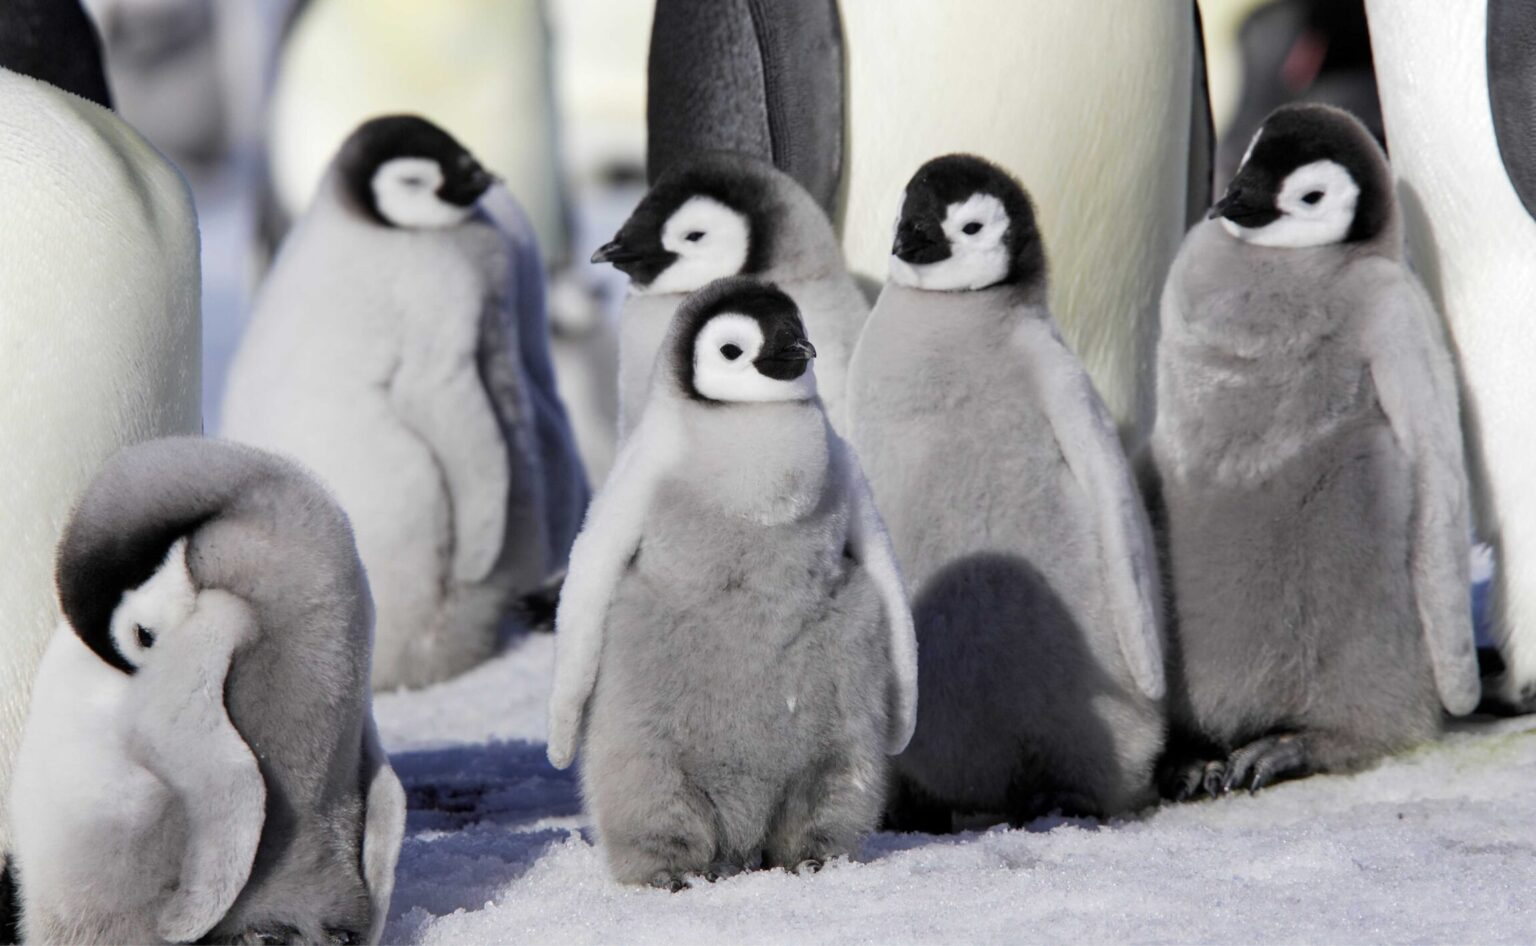
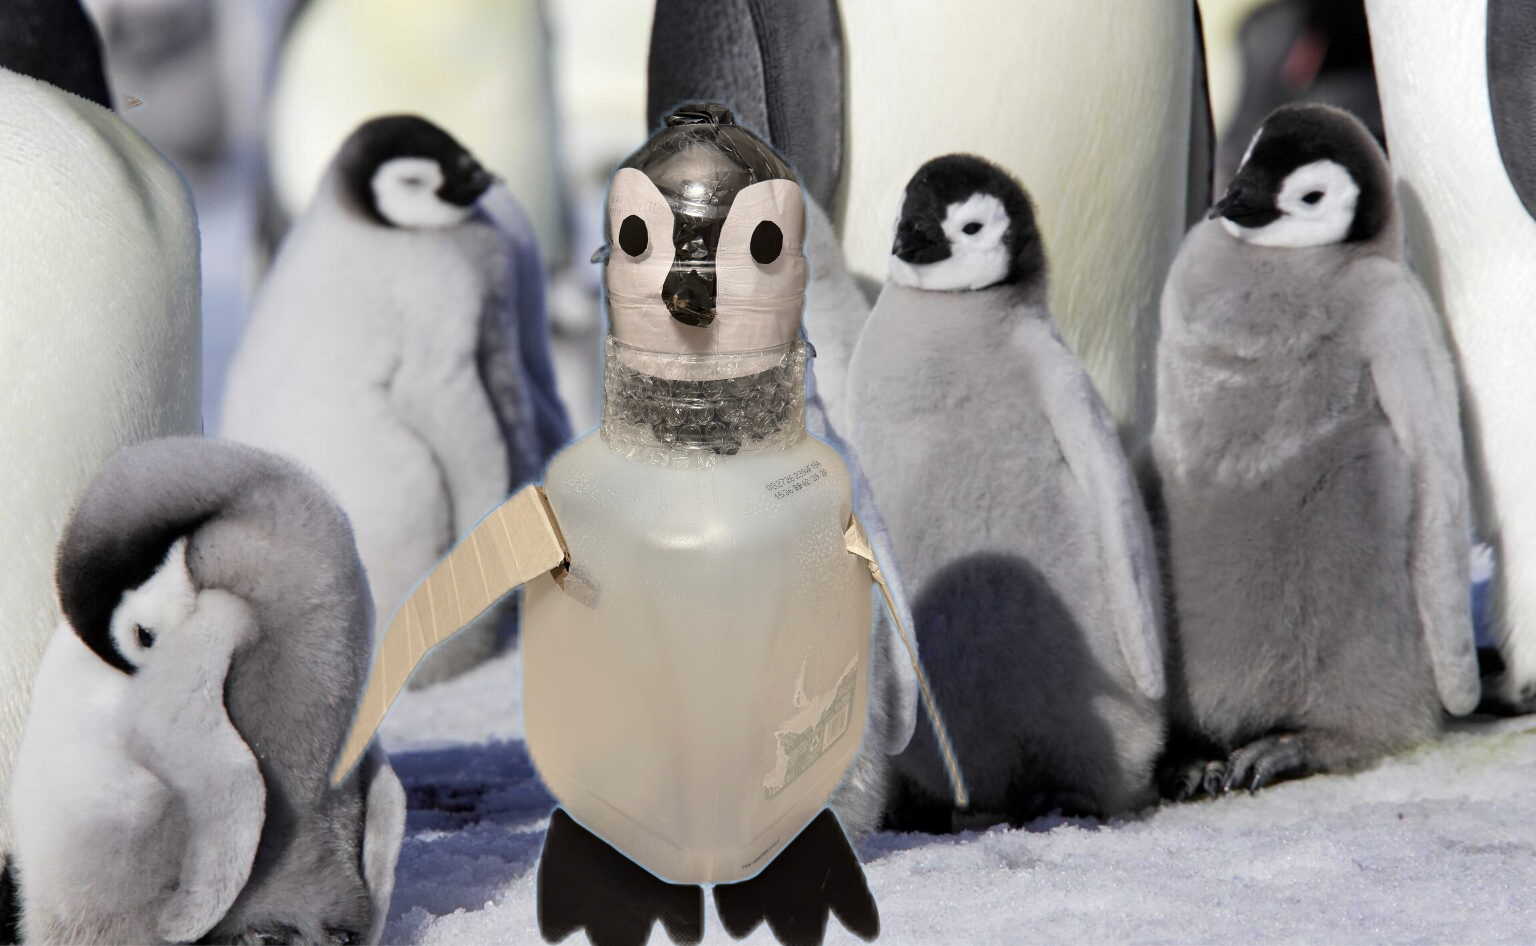
oenguin img

Changed region(s): [[0.2188, 0.092, 0.6562, 1.0]]

diff --git a/index.html b/index.html
@@ -16,7 +16,7 @@
 
         <div id="penguinProfile" style="display: none;">
             <img src="penguin.jpg" alt="baby emperor penguin">
-            <h2>Hi, I'm a emperor penguin chick</h2>
+            <h3>Hi, I'm an emperor penguin chick</h3>
             <p>
                 I was born in Antarctica, one of the coldest
                 places on Earth!
